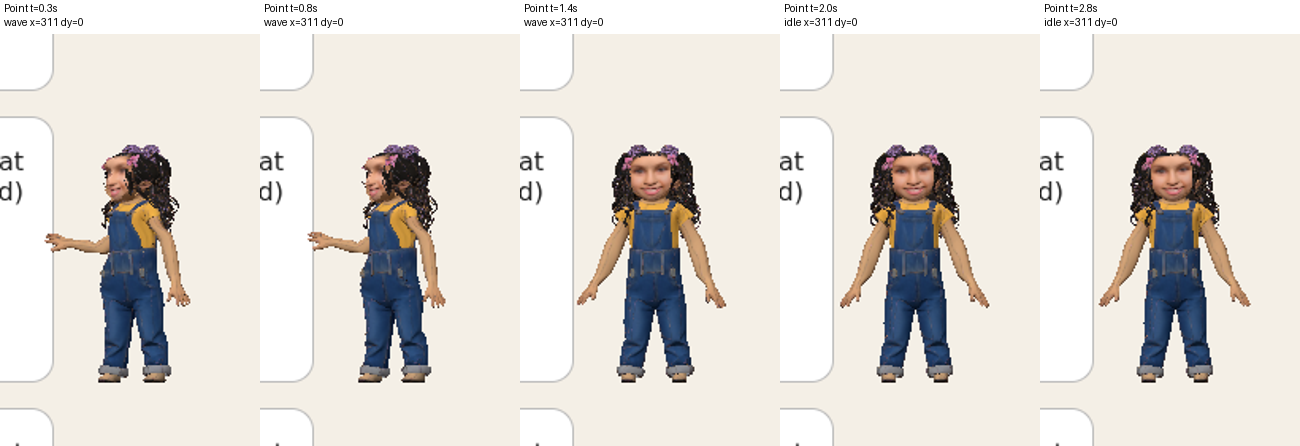
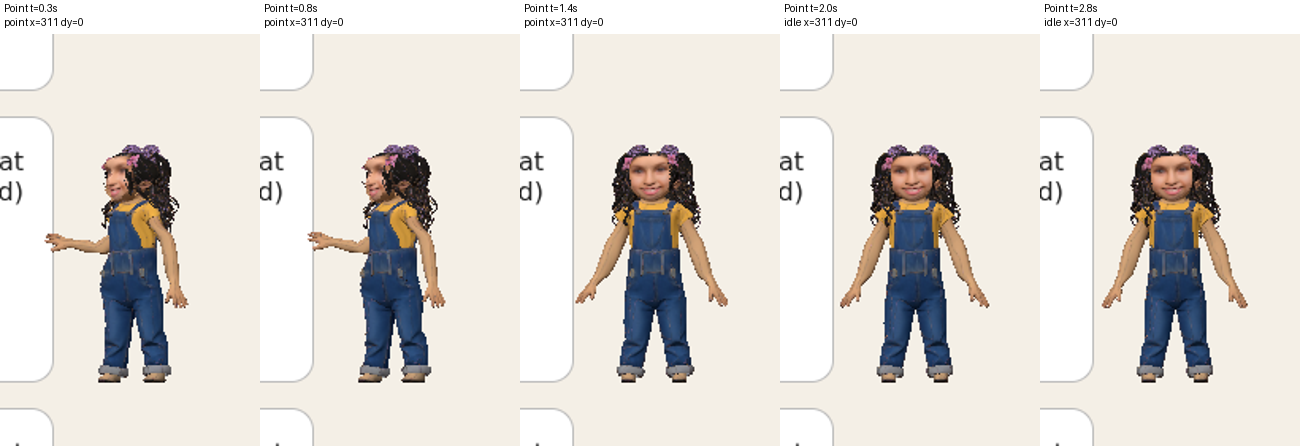
Lean contact fix (hand on card edge, 1 px), actionName, head diagnosis, 14 motion tests

diff --git a/assets/3d/karma/rig_integration_2026-11-25/js/KarmaMotion.js b/assets/3d/karma/rig_integration_2026-11-25/js/KarmaMotion.js
@@ -100,6 +100,22 @@ export class KarmaMotion extends Base {
     if (!(n === 'wave' && (k === 'turn' || k === 'point'))) this._yawTarget = 0;
     super.update(dt);
   }
+  /** Lean contact: the stock lean stands 0.1*charH from the card edge, which put the near hand about 0.25*charH INSIDE the card face
+   *  (measured by tests/contact_probe.py). Stand `leanReach` further out so the hand tip rests on the card edge instead of covering the card. */
+  _resolve(a) {
+    const t = super._resolve(a);
+    if (t && a && a.lean && t.side && t.side !== 'top') t.x += (t.side === 'right' ? 1 : -1) * (this.leanReach ?? 0.24) * this.charH;
+    return t;
+  }
+  /** Honest name of what she is doing now (stateName is the base controller's internal state: look/point/turn ride on 'wave', run on 'walk'). */
+  get actionName() {
+    const s = this.state; if (!s) return 'idle'; const n = s.name || this.stateName;
+    if (n === 'walk') return s.run ? 'run' : 'walk';
+    if (n === 'wave') return s.kind || 'wave';
+    if (n === 'tilt') return 'lean';
+    if (n === 'lean') return 'lean_on_card';
+    return n;
+  }
   _syncHolder(snap = false) {
     this._yawExtra += (this._yawTarget - this._yawExtra) * (1 - Math.exp(-9 * (this._lastDt || 1 / 60)));
     super._syncHolder(snap);

diff --git a/assets/3d/karma/rig_integration_2026-11-25/tests/contact_probe.py b/assets/3d/karma/rig_integration_2026-11-25/tests/contact_probe.py
@@ -1,0 +1,47 @@
+#!/usr/bin/env python3
+"""Drives test_page.html in headless Chrome: clicks every motion button, fast-forwards the simulation, records state/visibility/in-view, saves a screenshot per motion.
+Usage: python3 motion_page.py <serve_root> <page path> <out_dir> [desktop|phone]   (needs node_modules/three under serve_root)"""
+import subprocess, sys, time, json, base64, urllib.request, websocket, os
+root, page, out = sys.argv[1], sys.argv[2], sys.argv[3]; vp = sys.argv[4] if len(sys.argv) > 4 else 'desktop'
+os.makedirs(out, exist_ok=True)
+srv = subprocess.Popen(['python3', '-m', 'http.server', '8767'], cwd=root, stdout=subprocess.DEVNULL, stderr=subprocess.DEVNULL)
+w, h, mob = (1440, 900, False) if vp == 'desktop' else (390, 844, True)
+ch = subprocess.Popen(['google-chrome', '--headless=new', '--no-sandbox', '--use-gl=angle', '--use-angle=swiftshader', '--enable-unsafe-swiftshader', '--remote-debugging-port=9335', f'--window-size={w},{h}', 'about:blank'], stdout=subprocess.DEVNULL, stderr=subprocess.DEVNULL)
+res = {}
+try:
+    for _ in range(30):
+        time.sleep(1)
+        try: tabs = json.load(urllib.request.urlopen('http://127.0.0.1:9335/json')); break
+        except Exception: pass
+    ws = websocket.create_connection([t for t in tabs if t['type'] == 'page'][0]['webSocketDebuggerUrl'], timeout=100, suppress_origin=True)
+    n = [0]; errors = []
+    def call(m, p=None):
+        n[0] += 1; ws.send(json.dumps({'id': n[0], 'method': m, 'params': p or {}}))
+        while True:
+            r = json.loads(ws.recv())
+            if r.get('method') == 'Runtime.exceptionThrown': errors.append(r['params']['exceptionDetails'].get('exception', {}).get('description', 'exc')[:200])
+            if r.get('id') == n[0]: return r
+    ev = lambda e: call('Runtime.evaluate', {'expression': e, 'returnByValue': True, 'awaitPromise': True})['result']['result'].get('value')
+    call('Runtime.enable'); call('Page.enable')
+    call('Emulation.setDeviceMetricsOverride', {'width': w, 'height': h, 'deviceScaleFactor': 1, 'mobile': mob})
+    call('Page.addScriptToEvaluateOnNewDocument', {'source': "window.__t=1;"})
+    call('Page.navigate', {'url': f'http://localhost:8767/{page}?guard=0&three=http://localhost:8767/node_modules/three'})
+    for _ in range(60):
+        time.sleep(1)
+        if ev("!!window.__karmaStage") : break
+    assert ev("!!window.__karmaStage"), 'stage did not start: ' + str(errors)
+    ev("scrollTo(0,150)")
+    names = ev("[...document.querySelectorAll('#bar button')].map(b=>b.textContent)")
+    ev("document.querySelectorAll('#bar button')[%d].click()" % names.index('Lean on card')); 
+    JS = """(()=>{const s=__karmaStage,c=s.controller;const bn=s.rig.bones||s.rig.bone||s.rig;const out={keys:Object.keys(s.rig).slice(0,8)};
+      const cards=[...document.querySelectorAll('.story-index-card')].map(e=>e.getBoundingClientRect());
+      const vw=innerWidth,vh=innerHeight;const P=(n)=>{const o=(bn[n]||(s.rig.getBone&&s.rig.getBone(n)));if(!o)return null;o.updateWorldMatrix(true,false);const e=o.matrixWorld.elements;return {x:e[12]+vw/2,y:vh/2-e[13]}};
+      const d=(p,r)=>{const dx=Math.max(r.left-p.x,0,p.x-r.right),dy=Math.max(r.top-p.y,0,p.y-r.bottom);return Math.hypot(dx,dy)};
+      const res={state:c.stateName,pos:[c.pos.x,c.pos.y],charH:c.charH,halfW:c.halfW,hands:{}};
+      for(const n of ['Hand_L','Hand_R','Forearm_L','Forearm_R']){const p=P(n);if(!p){res.hands[n]=null;continue}const near=cards.map(r=>d(p,r)).sort((a,b)=>a-b)[0];res.hands[n]={x:Math.round(p.x),y:Math.round(p.y),gap_to_nearest_card_px:Math.round(near)}}
+      const nr=cards.filter(r=>Math.abs(((r.right+r.left)/2)-c.pos.x)<400&&c.pos.y>r.top&&c.pos.y-c.charH<r.bottom).sort((a,b)=>Math.abs(a.right-c.pos.x)-Math.abs(b.right-c.pos.x))[0];res.card_right=nr&&Math.round(nr.right);if(nr){for(const n of ['Hand_L','Hand_R']){const p=res.hands[n];if(p)p.penetration_into_card_px=Math.round(nr.right-p.x)}};res.nearestCardRight=cards.map(r=>Math.round(r.right)).filter(v=>Math.abs(v-c.pos.x)<200);return res})()"""
+    for t in (0.5, 1.5, 2.5, 3.5):
+        ev(f"window.__karmaStage.fastForward({0.9 if t==0.5 else 1.0})")
+        print(t, json.dumps(ev(JS)))
+finally:
+    ch.kill(); srv.kill()

diff --git a/assets/3d/karma/rig_integration_2026-11-25/tests/head_diag.py b/assets/3d/karma/rig_integration_2026-11-25/tests/head_diag.py
@@ -1,0 +1,53 @@
+#!/usr/bin/env python3
+"""Drives test_page.html in headless Chrome: clicks every motion button, fast-forwards the simulation, records state/visibility/in-view, saves a screenshot per motion.
+Usage: python3 motion_page.py <serve_root> <page path> <out_dir> [desktop|phone]   (needs node_modules/three under serve_root)"""
+import subprocess, sys, time, json, base64, urllib.request, websocket, os
+root, page, out = sys.argv[1], sys.argv[2], sys.argv[3]; vp = sys.argv[4] if len(sys.argv) > 4 else 'desktop'
+os.makedirs(out, exist_ok=True)
+srv = subprocess.Popen(['python3', '-m', 'http.server', '8767'], cwd=root, stdout=subprocess.DEVNULL, stderr=subprocess.DEVNULL)
+w, h, mob = (1440, 900, False) if vp == 'desktop' else (390, 844, True)
+ch = subprocess.Popen(['google-chrome', '--headless=new', '--no-sandbox', '--use-gl=angle', '--use-angle=swiftshader', '--enable-unsafe-swiftshader', '--remote-debugging-port=9335', f'--window-size={w},{h}', 'about:blank'], stdout=subprocess.DEVNULL, stderr=subprocess.DEVNULL)
+res = {}
+try:
+    for _ in range(30):
+        time.sleep(1)
+        try: tabs = json.load(urllib.request.urlopen('http://127.0.0.1:9335/json')); break
+        except Exception: pass
+    ws = websocket.create_connection([t for t in tabs if t['type'] == 'page'][0]['webSocketDebuggerUrl'], timeout=100, suppress_origin=True)
+    n = [0]; errors = []
+    def call(m, p=None):
+        n[0] += 1; ws.send(json.dumps({'id': n[0], 'method': m, 'params': p or {}}))
+        while True:
+            r = json.loads(ws.recv())
+            if r.get('method') == 'Runtime.exceptionThrown': errors.append(r['params']['exceptionDetails'].get('exception', {}).get('description', 'exc')[:200])
+            if r.get('id') == n[0]: return r
+    ev = lambda e: call('Runtime.evaluate', {'expression': e, 'returnByValue': True, 'awaitPromise': True})['result']['result'].get('value')
+    call('Runtime.enable'); call('Page.enable')
+    call('Emulation.setDeviceMetricsOverride', {'width': w, 'height': h, 'deviceScaleFactor': 1, 'mobile': mob})
+    call('Page.addScriptToEvaluateOnNewDocument', {'source': "window.__t=1;"})
+    call('Page.navigate', {'url': f'http://localhost:8767/{page}?guard=0&three=http://localhost:8767/node_modules/three'})
+    for _ in range(60):
+        time.sleep(1)
+        if ev("!!window.__karmaStage") : break
+    assert ev("!!window.__karmaStage"), 'stage did not start: ' + str(errors)
+    ev("scrollTo(0,150)")
+    names = ev("[...document.querySelectorAll('#bar button')].map(b=>b.textContent)")
+    from PIL import Image, ImageDraw
+    ev("document.querySelectorAll('#bar button')[%d].click()" % names.index('Walk')); ev("window.__karmaStage.fastForward(8)")
+    ev("(()=>{const c=__karmaStage.controller;window.__o=c._poseIdle.bind(c);window.__X=[0,0,0,0];c._poseIdle=(T)=>{window.__o(T);const x=window.__X;T.Head=[0,x[1],0];T.Neck=[0,x[2],0];T.Chest=[0,x[3],0];c._yawTarget=x[0];};})()")
+    cases = [('A_body_yaw_only_0.55', [0.55,0,0,0]), ('B_head_neck_chest_only_0.25/0.1/0.1', [0,0.25,0.1,0.1]), ('C_point_combo', [0.55,0.25,0.1,0.1]), ('D_head_only_0.8', [0,0.8,0,0])]
+    frames = []
+    for nm, x in cases:
+        ev(f"window.__X={json.dumps(x)}"); ev("window.__karmaStage.fastForward(1.2)")
+        st = ev("(()=>{const c=__karmaStage.controller;return {x:Math.round(c.pos.x),y:Math.round(c.pos.y),h:c.charH,hw:c.halfW}})()")
+        shot = call('Page.captureScreenshot', {'format': 'png'})['result']['data']
+        fn = f'{out}/diag_{nm[0]}.png'; open(fn, 'wb').write(base64.b64decode(shot)); frames.append((nm, st, fn))
+    st = frames[0][1]; l = st['x'] - 80; t = st['y'] - st['h'] - 20; r = st['x'] + 80; b = st['y'] + 10
+    sh = Image.new('RGB', (320 * 4 // 2 * 2, 40 + int((b - t) * 2)), 'white'); d = ImageDraw.Draw(sh)
+    sh = Image.new('RGB', (320 * 4, 40 + int((b - t) * 2)), 'white'); d = ImageDraw.Draw(sh)
+    for k, (nm, st, fn) in enumerate(frames):
+        im = Image.open(fn).convert('RGB').crop((int(l), int(t), int(r), int(b))).resize((320, int((b - t) * 2)))
+        sh.paste(im, (k * 320, 40)); d.text((k * 320 + 4, 4), nm.replace('_', ' '), fill='black')
+    sh.save(f'{out}/head_diagnosis_sheet.png')
+finally:
+    ch.kill(); srv.kill()

diff --git a/assets/3d/karma/rig_integration_2026-11-25/tests/motion_page.py b/assets/3d/karma/rig_integration_2026-11-25/tests/motion_page.py
@@ -50,7 +50,7 @@ try:
         t0 = 0; frames = []
         for t in TIMES.get(nm, DEF):
             ev(f"window.__karmaStage.fastForward({round(t - t0, 3)})"); t0 = t
-            st = ev("(()=>{const c=__karmaStage.controller;return {state:c.stateName,x:Math.round(c.pos.x),y:Math.round(c.pos.y),oy:+(c.jumpDY||0).toFixed(1),visible:c.object3D.visible,halfW:c.halfW,charH:c.charH,inView:c.pos.x-c.halfW>=-1&&c.pos.x+c.halfW<=innerWidth+1}})()")
+            st = ev("(()=>{const c=__karmaStage.controller;return {state:c.actionName,x:Math.round(c.pos.x),y:Math.round(c.pos.y),oy:+(c.jumpDY||0).toFixed(1),visible:c.object3D.visible,halfW:c.halfW,charH:c.charH,inView:c.pos.x-c.halfW>=-1&&c.pos.x+c.halfW<=innerWidth+1}})()")
             shot = call('Page.captureScreenshot', {'format': 'png'})['result']['data']
             fn = f'{out}/frame_{vp}_{i:02d}_{nm.replace(" ", "_")}_{int(t*1000):04d}ms.png'; open(fn, 'wb').write(base64.b64decode(shot))
             frames.append((t, st, fn))
